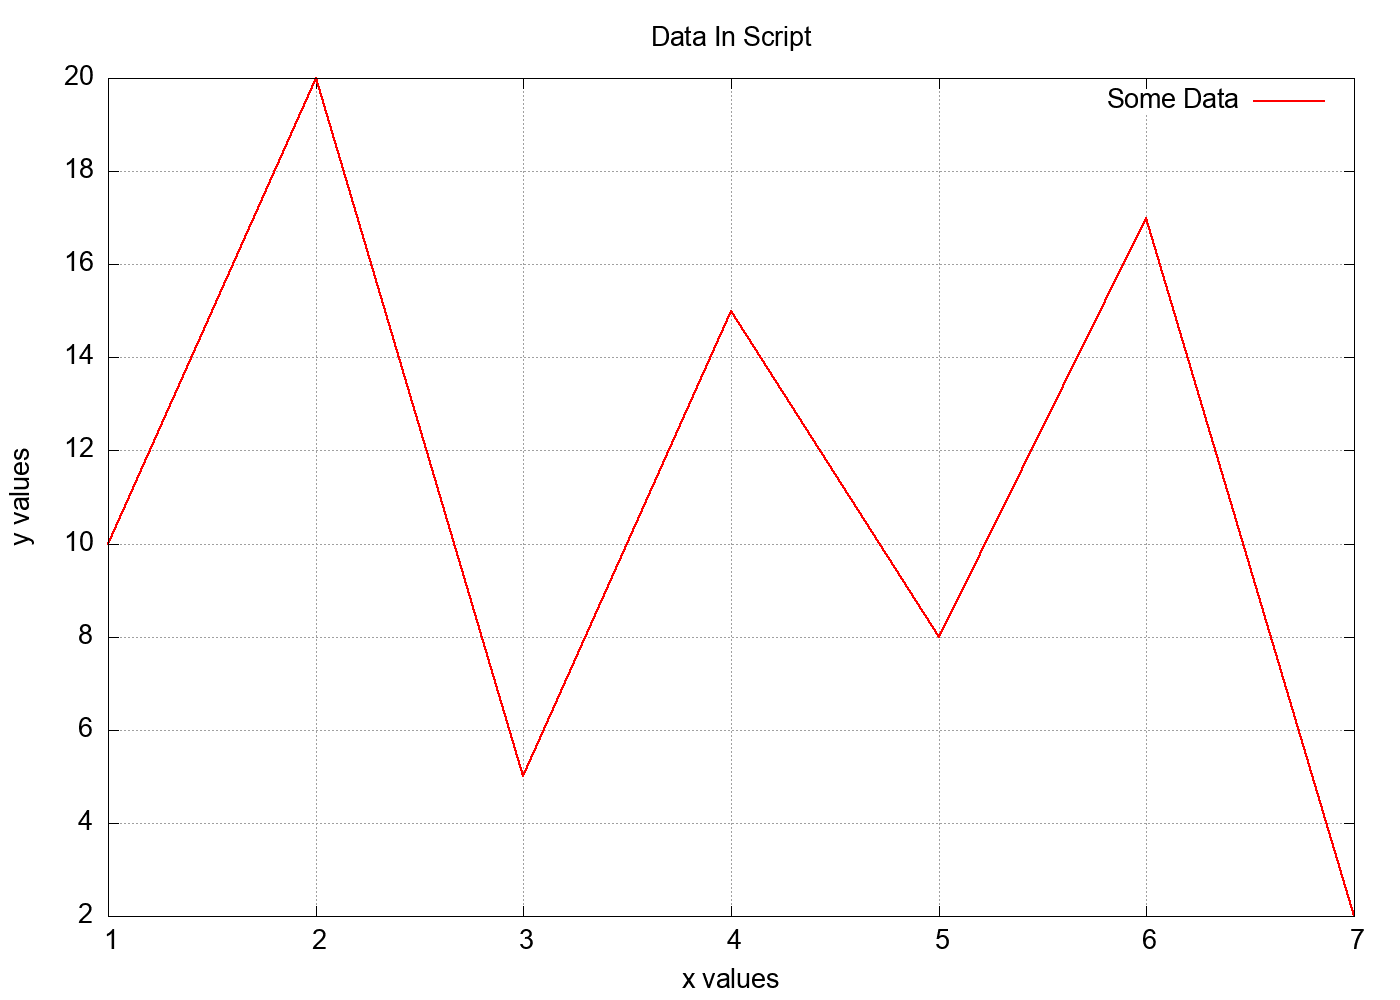
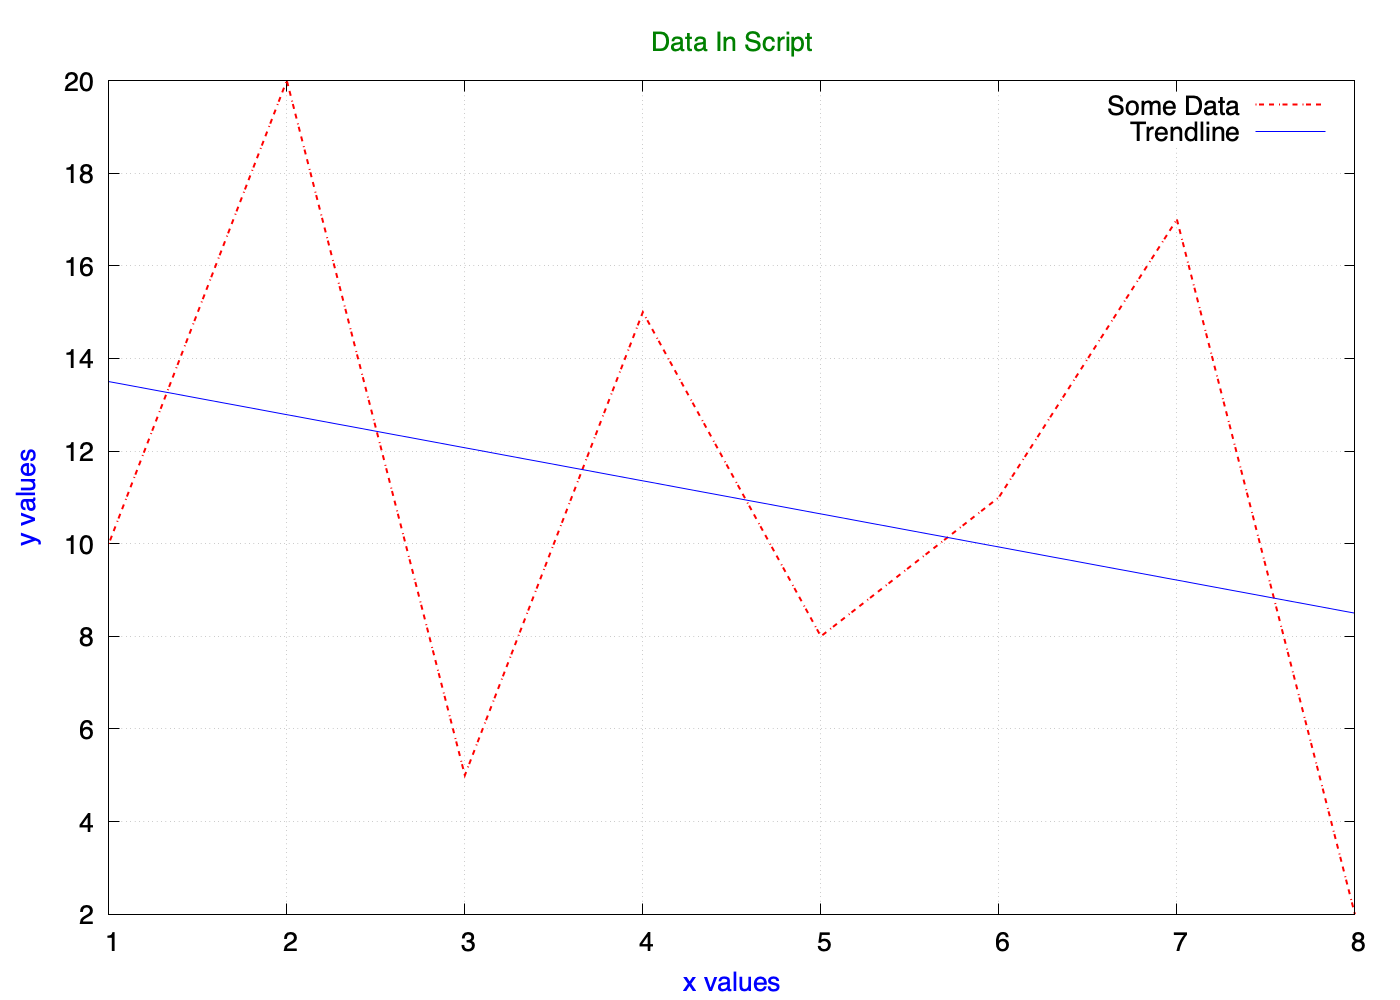
- Example for trendline added  - Documentation updated

diff --git a/gnuplot/README.md b/gnuplot/README.md
@@ -1,11 +1,51 @@
 # Welcome to the Gnuplot Snippets
 
+## Introduction
+
+In general I'm trying to combine features
+at different locations instead writing an
+example for each individual feature. See
+the descriptions below.
+
 ## Running Scripts
 
 ```bash
 gnuplot DemoMultiplot.plt
 gnuplot DemoDataContained.plt
 ```
+
+## Export to png
+
+In most cases the export to png is used that I'm
+using as preview in my IDE. Please not that I got
+better results with pngcairo; as an example the
+**dashtype** seems not recognized with "png" only.
+
+## DemoMultiplot
+
+ - Three plots are shown (three rows)
+ - Filled curves and impulse curves are shown
+ - The x/y ranges are limited
+ - The plot is using functions (sin, cos and tan)
+   not data tables.
+ - Label (axes) and title fonts are changed (size)
+ - Options set before a plot are also available
+   in next plot as long as not overwritten again
+ - Plot is exported to png
+
+## DemoDataContained
+
+ - Possibility to have the data inside the script.
+   For generating one script on the fly it might
+   be useful.
+ - **Label colors** of axes are changed
+ - The **dashtype** is changed
+ - A **trendline** is calculated and plotted
+   (here using a linear function)
+ - Grid is shown
+ - Title color is changed
+ - Plot is exported to png
+
 
 ## Useful links
 
